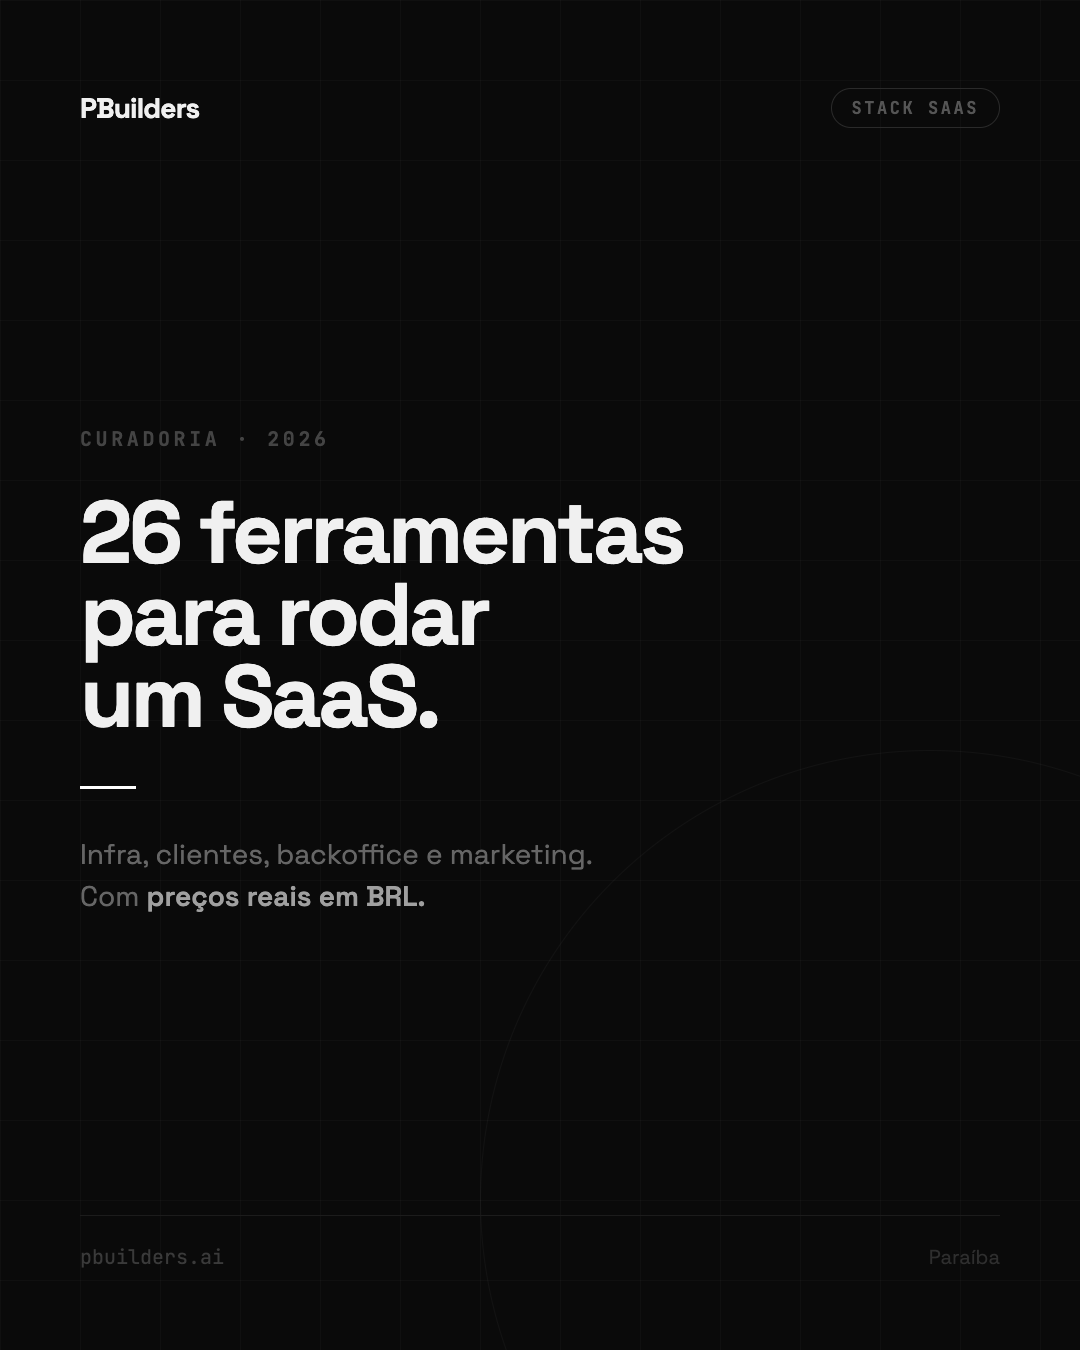
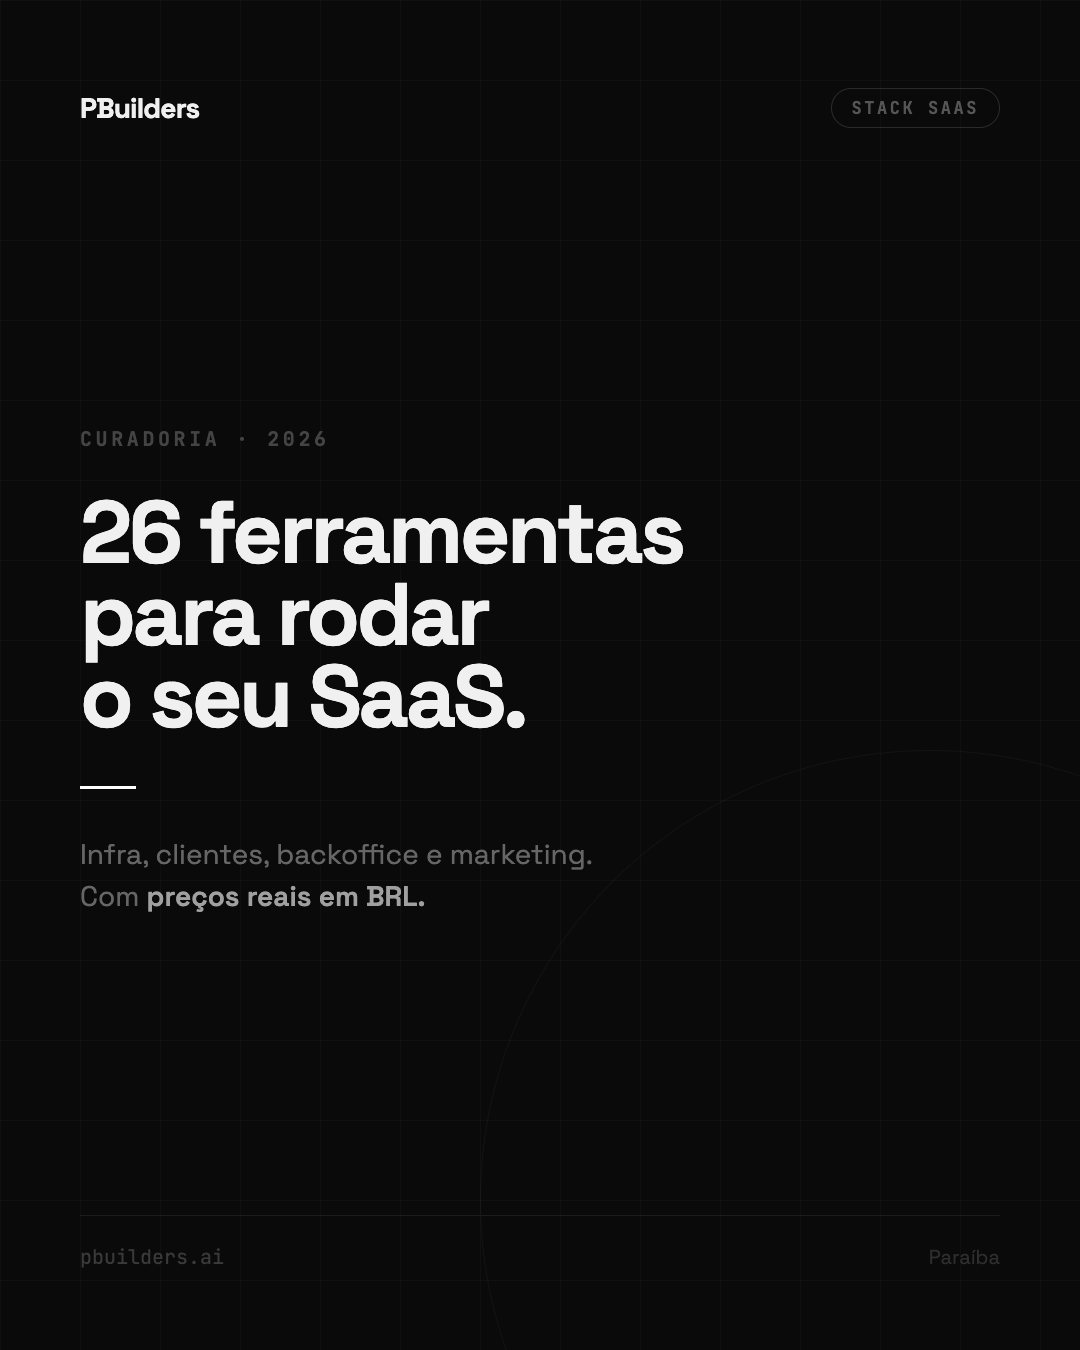
Ajustar headline: 'um SaaS' → 'o seu SaaS'

Changed region(s): [[0.0611, 0.4667, 0.4889, 0.56]]

diff --git a/content/2026-04-02-stack-saas/instagram-carousel.html b/content/2026-04-02-stack-saas/instagram-carousel.html
@@ -461,7 +461,7 @@
       <div class="headline">
         <em>26 ferramentas</em>
         <em>para rodar</em>
-        <em>um SaaS.</em>
+        <em>o seu SaaS.</em>
       </div>
       <div class="accent-line"></div>
       <div class="subline">

diff --git a/content/2026-04-02-stack-saas/instagram-stories.html b/content/2026-04-02-stack-saas/instagram-stories.html
@@ -335,7 +335,7 @@
         <em>26</em>
         <em>ferramentas</em>
         <em>para rodar</em>
-        <em>um SaaS.</em>
+        <em>o seu SaaS.</em>
       </div>
       <div class="accent-line"></div>
       <div class="subline">
